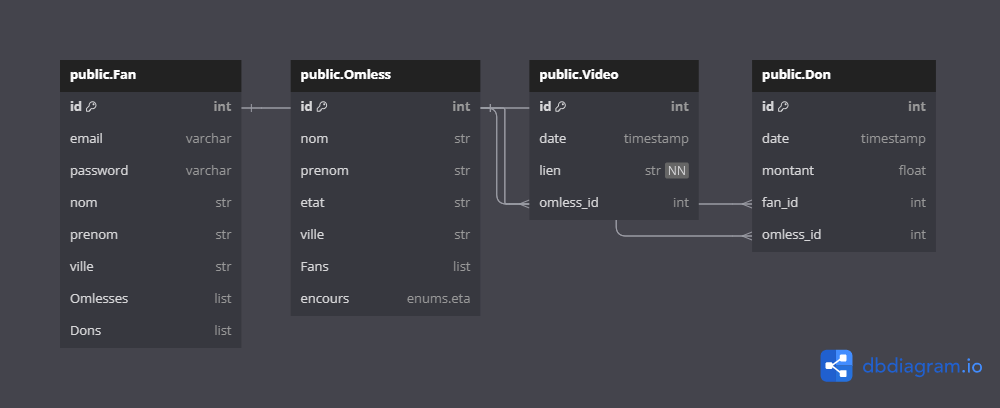
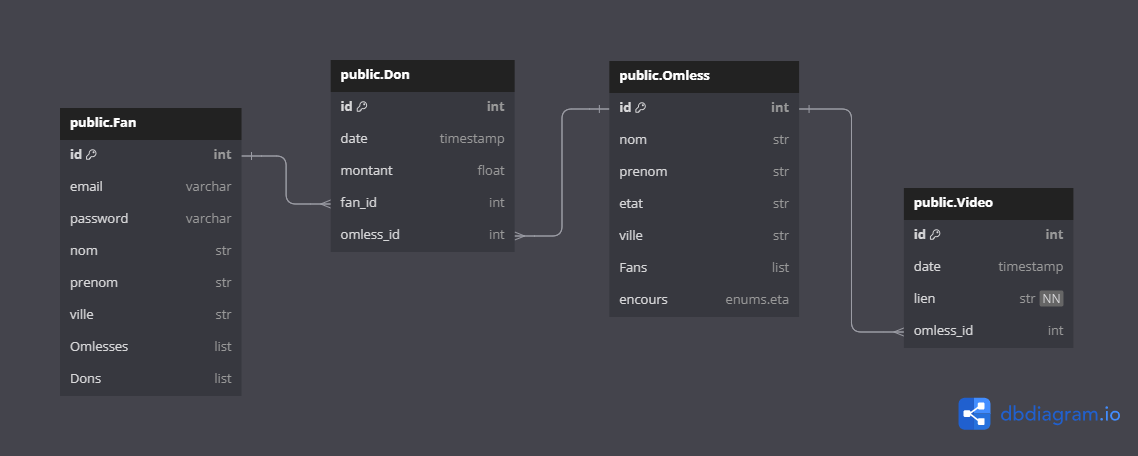
Documentation supplémentaire

diff --git a/Documentation/POO_Schema/poo_ideas.md b/Documentation/POO_Schema/poo_ideas.md
@@ -1,0 +1,36 @@
+# Nouvelle entitée : Periode
+## Principe
+Une phase période pour tout les dons (fonctionnement Patreon)
+## Pros :
+- Tout les dons sont déposé en même temps et les périodes sont synchronisés
+## Cons : 
+- Un Fan ne peut pas faire de don sur la période actuelle avant une période
+- Est ce que une période a réellement besoin d'être une entitée ? 
+
+# Nouvelle entitée : Association
+## Principe
+Une association responsable du Omless et de ses dons
+## Pros :
+- Permet de prévoir des responsables du bien être et des dons d'un Omless
+## Cons : 
+- Compliqué pour commencer
+- Prévoir une interface pour les Association
+- Pourrais juste être un type de Fan avec une interface différente (admin)
+
+# Nouvelle entitée : TodoElements
+## Principe
+Les Omless ont des objectifs , et parfois ils sont commun de l'un à l'autre 
+## Pros :
+- Définition fini d'objectifs
+- association d'un logo réutilisable
+## Cons : 
+-  Est-ce que un objectif a réellement besoin d'être une entitée ? 
+
+# Nouvelle entitée : ProgressElements
+## Principe
+Les Omless ont des éléments de progressions , et parfois ils sont commun de l'un à l'autre 
+## Pros :
+- Définition fini d'éléments de progression
+- association d'un logo réutilisable
+## Cons : 
+-  Est-ce que un élément de progression a réellement besoin d'être une entitée ? 

diff --git a/Documentation/MCD_Schema/mcd_ideas.md b/Documentation/MCD_Schema/mcd_ideas.md
@@ -1,0 +1,16 @@
+# Décision : Séparer Video Dons et Vidéo Omless :
+## Principe
+Isolation de 2 types de vidéos différentes : 
+    - Une qui est forcément attaché à un Don
+        - L'omless fait une vidéo de remerciement au Fan
+        - Le Fan fait une vidéo d'encouragement au Omless
+    - Une qui est forcément attaché à un Omless 
+        - Vidéos de présentation, de progression du profil du Omless
+## Pros :
+- Possibilité d'être limité sur la relation Video -> Omless -> Don -> Fan
+- Meilleure adaptation en cas de besoin futurs
+- 2 Manière d'augmenter les données (NBFixeVideos x Omless vs 1 x mois x Omless)
+## Cons : 
+- Dupplication du même principe (vidéos)
+- La logique de l'application interdit la création d'une vidéo d'un fan sans un don
+

diff --git a/Documentation/Requirements.md b/Documentation/Requirements.md
@@ -35,7 +35,7 @@ Elements de progression :
 
 ## Sommes
 
-- 30€/mois : Niveau Sandwich (l'équivalent de 1€ par jour
+- 30€/mois : Niveau Sandwich (l'équivalent de 1€ par jour)
 
 
 Pourquoi la somme est limité ? 
